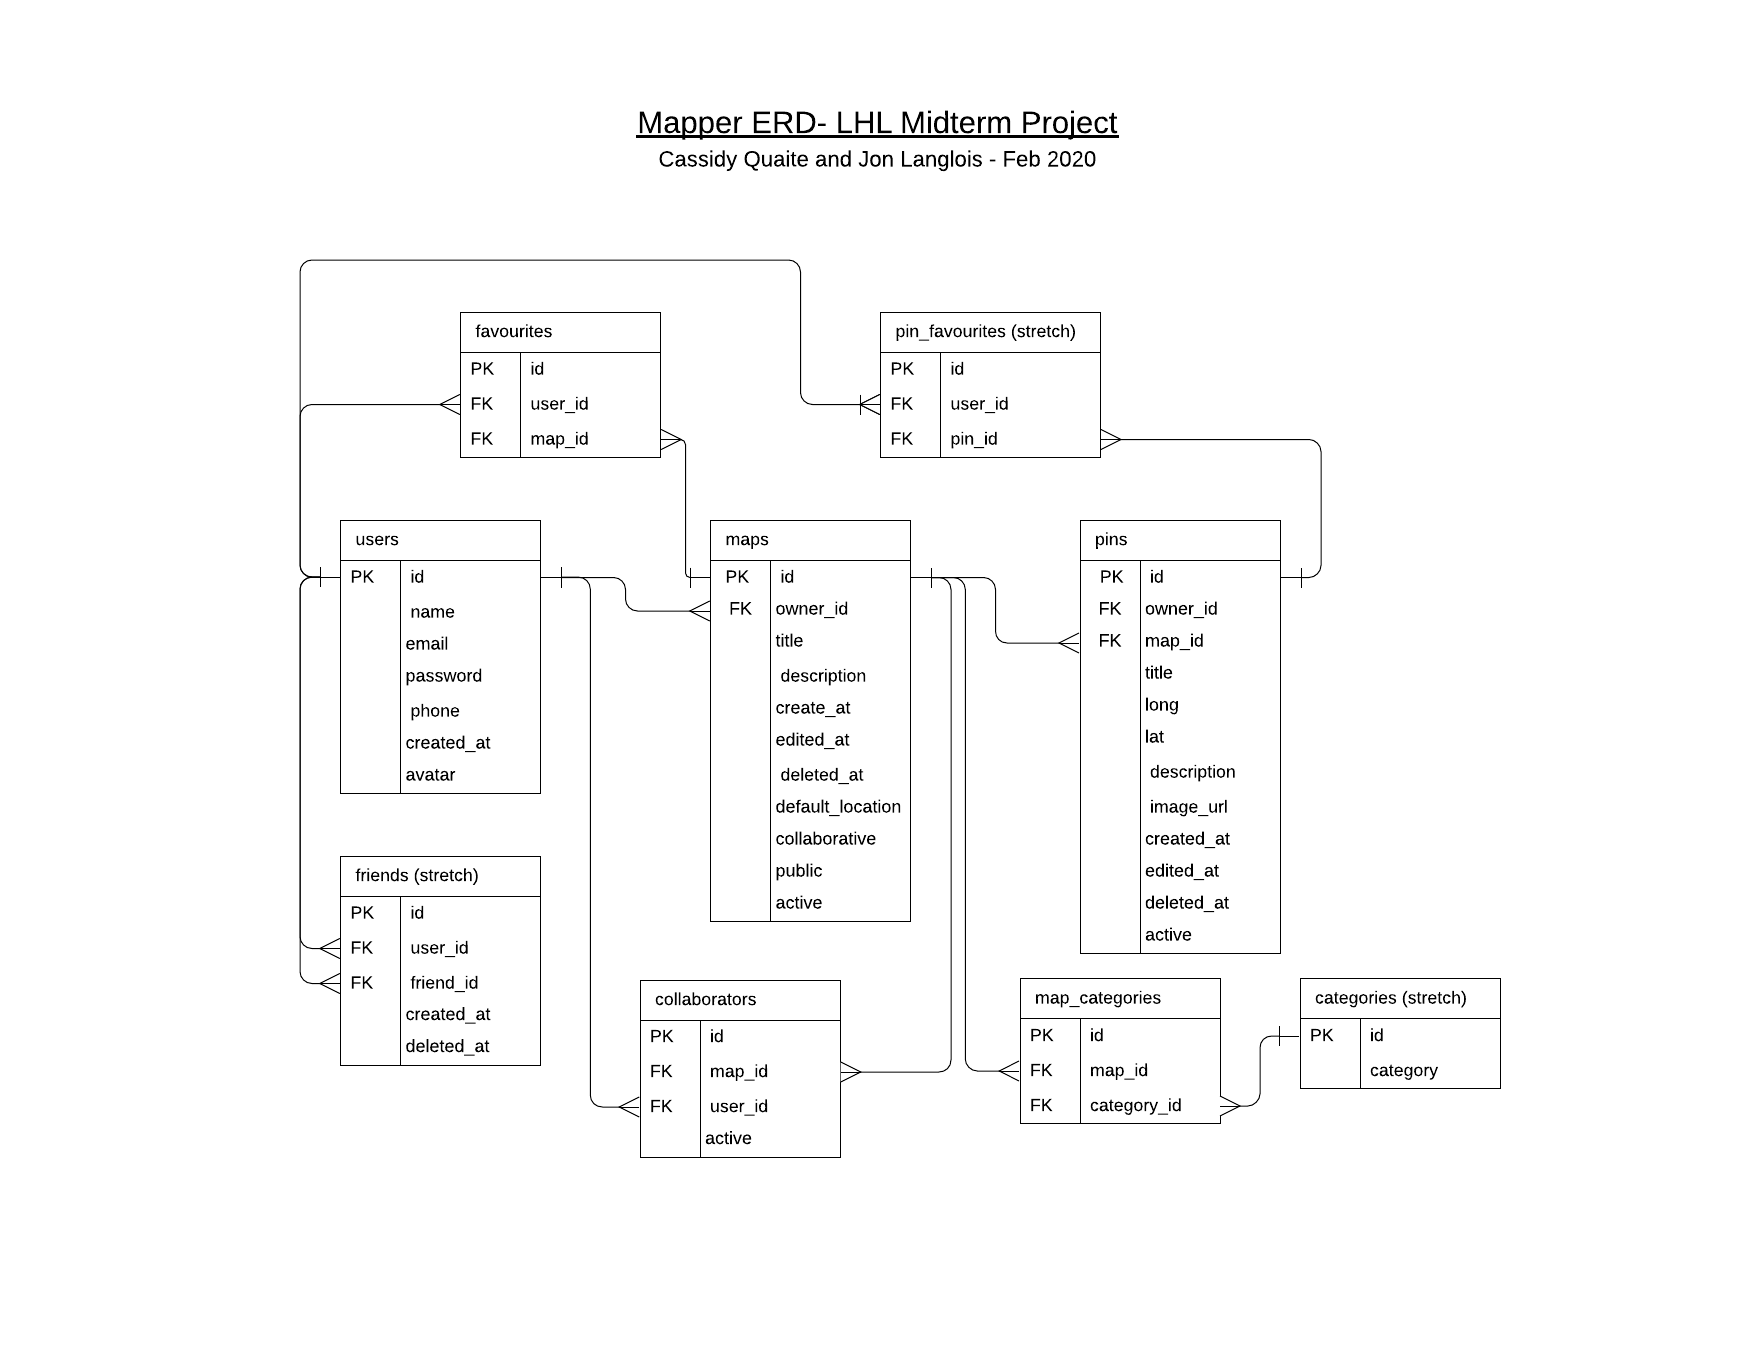
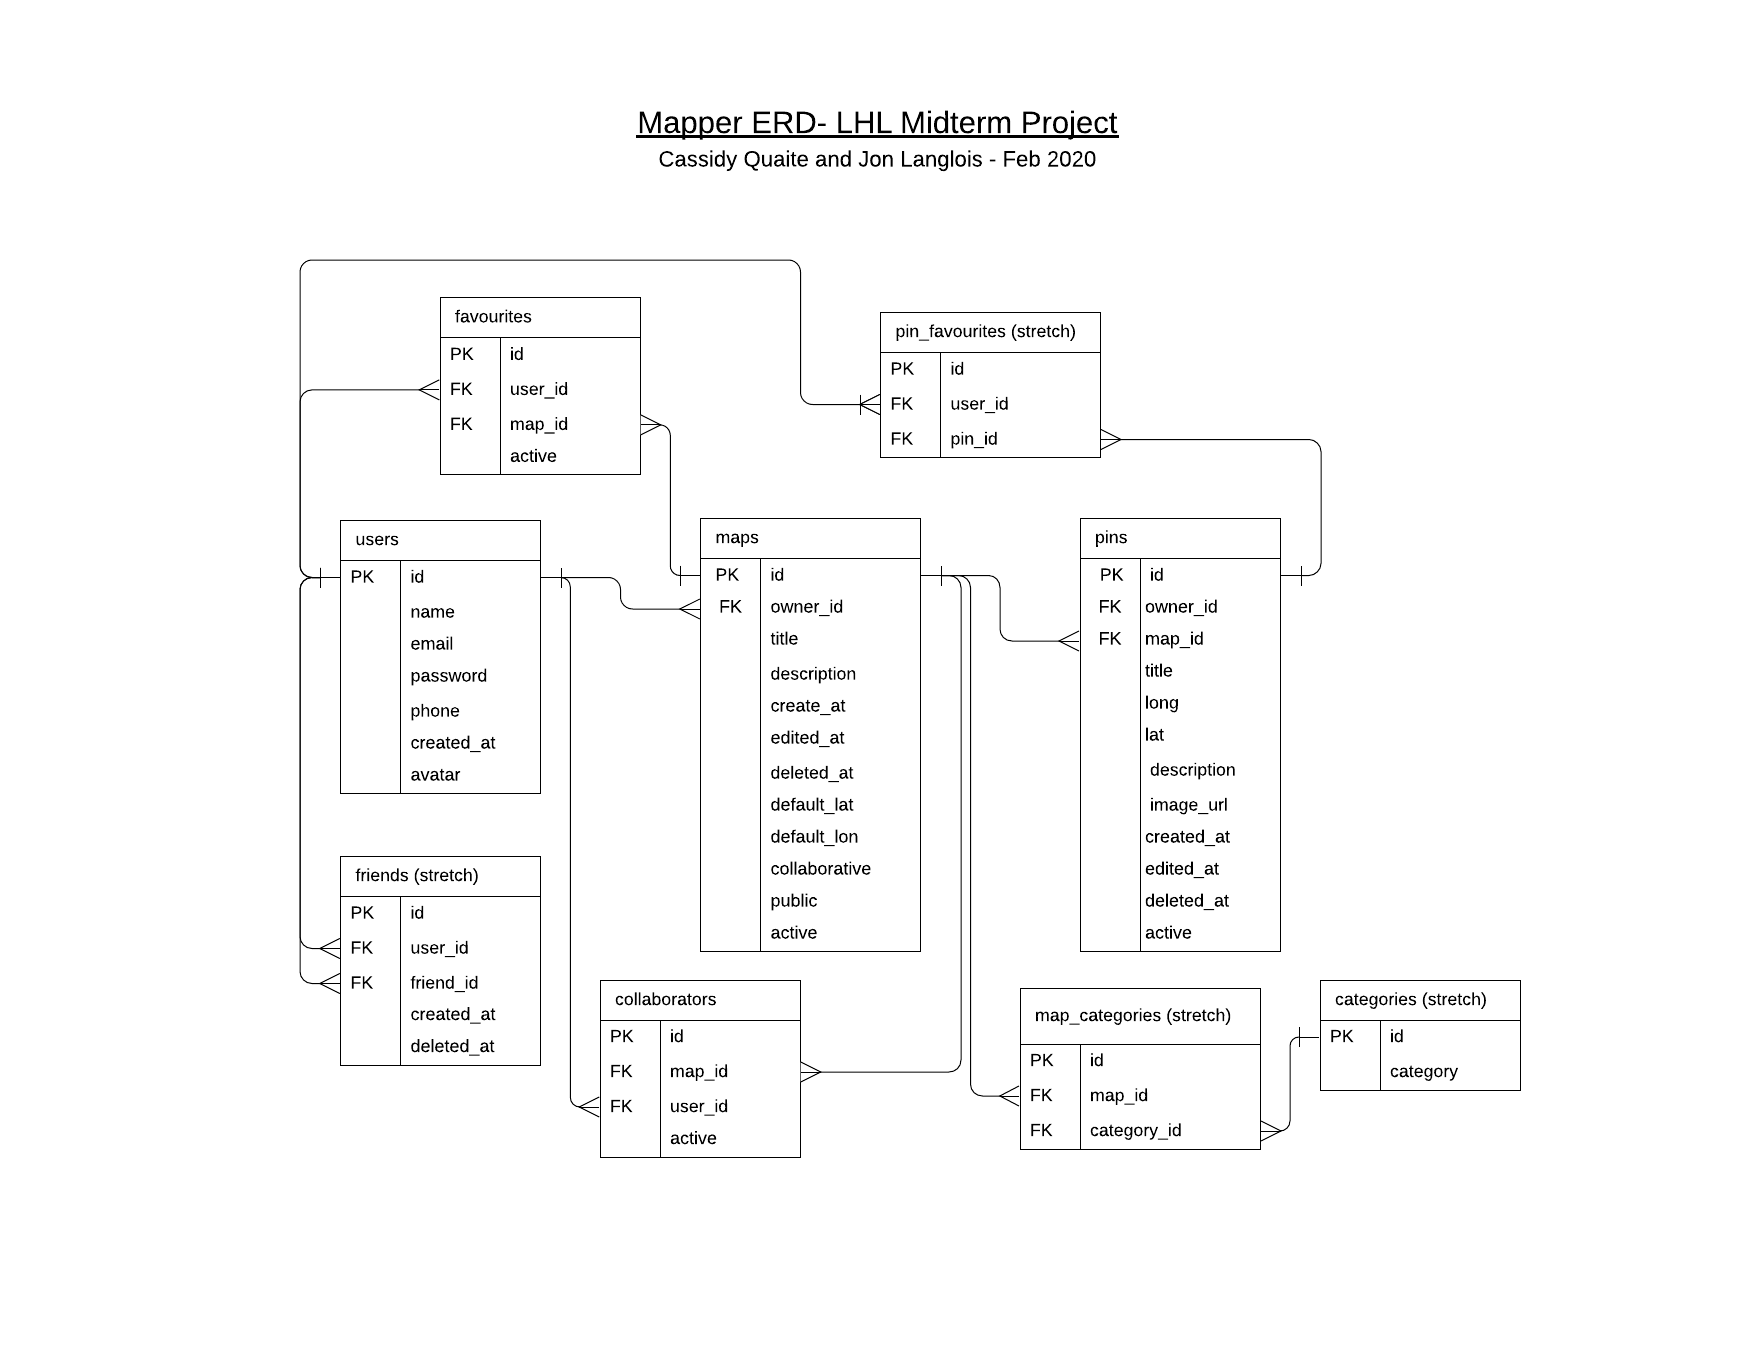
Updated README, db structure to align with what we built, and removed google api key from views so map will render in dev mode

diff --git a/README.md b/README.md
@@ -1,43 +1,104 @@
-LHL Node Skeleton
-=========
+# Lighthouse Labs Midterm Project - Mapper
 
-## Project Setup
+> Mapper is a web app that allows users to collaboratively create maps which list multiple pinned locations. Similar to Foursquare you can create and save custom maps such as "Best Coffee Shops Around Town" or "Victoria Brewery Tour Stops".
 
-The following steps are only for _one_ of the group members to perform.
+<!-- Badges -->
 
-1. Create your own copy of this repo using the `Use This Template` button, ideally using the name of your project. The repo should be marked Public
-2. Verify that the skeleton code now shows up in your repo on GitHub, you should be automatically redirected
-3. Clone your copy of the repo to your dev machine
-4. Add your team members as collaborators to the project so that they can push to this repo
-5. Let your team members know the repo URL so that they use the same repo (they should _not_ create a copy/fork of this repo since that will add additional workflow complexity to the project)
+[![NPM Version](https://img.shields.io/npm/v/npm.svg?style=flat)]()
+[![GitHub contributors](https://img.shields.io/github/contributors/jlangy/mapper?style=flat)]() 
+
+## Table of contents
+
+- [Usage](#usage)
+- [Getting started](#getting-started)
+  - [Prerequisites](#prerequisites)
+  - [Installing and running](#installing-and-running)
+- [Deployment](#deployment)
+- [Built with](#built-with)
+- [Known feature quirks](#known-issues-/-bugs)
+- [Feature roadmap](#feature-roadmap)
+  
+
+## Usage
+
+### Login
+To login to Mapper, go to "/users/login" and enter a user's email address with no password. 
+
+### Navigation 
+Once logged in you will be able to view all public maps on the site. From here you can navigate to one of the public maps or to your profile. Your profile will contain a list of your maps (all maps you are a contributor on) and you favourite maps. 
+
+A user is able to edit any map that they have created or are a collaborator on. Logged in users are also able to favourite any public map to save to their favourites list.
 
 
-## Getting Started
 
-1. Create the `.env` by using `.env.example` as a reference: `cp .env.example .env`
-2. Update the .env file with your correct local information 
-  - username: `labber` 
-  - password: `labber` 
-  - database: `midterm`
-3. Install dependencies: `npm i`
-4. Fix to binaries for sass: `npm rebuild node-sass`
-5. Reset database: `npm run db:reset`
-  - Check the db folder to see what gets created and seeded in the SDB
-7. Run the server: `npm run local`
-  - Note: nodemon is used, so you should not have to restart your server
-8. Visit `http://localhost:8080/`
+<!-- Screenshots -->
 
-## Warnings & Tips
 
-- Do not edit the `layout.css` file directly, it is auto-generated by `layout.scss`
-- Split routes into their own resource-based file names, as demonstrated with `users.js` and `widgets.js`
-- Split database schema (table definitions) and seeds (inserts) into separate files, one per table. See `db` folder for pre-populated examples. 
-- Use the `npm run db:reset` command each time there is a change to the database schema or seeds. 
-  - It runs through each of the files, in order, and executes them against the database. 
-  - Note: you will lose all newly created (test) data each time this is run, since the schema files will tend to `DROP` the tables and recreate them.
+## Getting started
+
+Follow the instructions below to get the project up and running on your local machine for development and testing purposes. 
+
+### Prerequisites
+
+If you don't have Nodejs and npm installed, install them from [here.](https://nodejs.org/en/)
+
+### Installing and Running
+
+In the root directory, install dependencies:
+
+```
+npm i
+```
+Fix to binaries for sass:
+```
+npm rebuild node-sass
+```
+Reset database:
+
+```
+npm run db:reset
+```
+Run the server (nodemon is used):
+```
+npm run local
+```
+Lastly, visit [Mapper](http://localhost:3000/maps)!
+
+
+## Built with
+
+- [ES6]() - Server-side code
+- [Nodejs](https://nodejs.org/en/) - JavaScript runtime
+- [Express](https://expressjs.com/) - Framework used for API in Node
+- [Bootstrap](https://sass-lang.com//) - Front-end framework
+- [jQuery](https://jquery.com/) - JavaScript library
+- [Sass](https://sass-lang.com/) - CSS Preprocessor
+- [PostgreSQL](https://www.postgresql.org/) - Open source object-relational database
+- [Git](https://git-scm.com/) - Version Control
+
+## Known feature quirks
+
+- Login is for demo purposes only
+- No logout functionality
+
+
+## Feature roadmap
+
+- Friends - user can maintain a list of friends that they are able to collaborate on maps with. Could set your maps to be public, or shared with friends.
+- Map Categories - add category tags to your maps, search public maps based on categories.
+- Pin Favourites - similar to how users can favourite a map, they can also favourite and filter by individual pins.
+
 
 ## Dependencies
 
-- Node 10.x or above
-- NPM 5.x or above
-- PG 6.x
+- Node
+- NPM 
+- PG 
+- Body-parser
+- Cookie-session 
+- dotenv
+- ejs
+- Morgan
+- Node-sass-middleware
+- Nodemon
+
